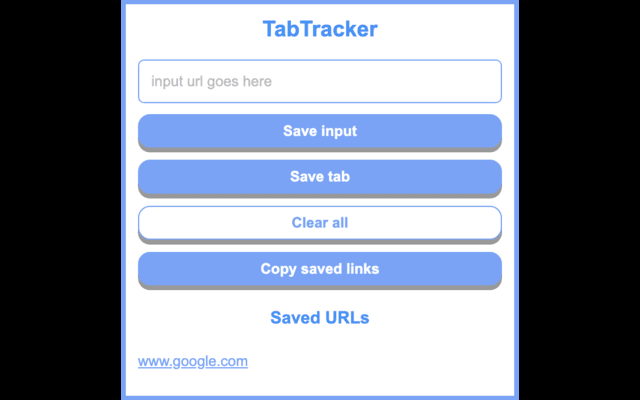
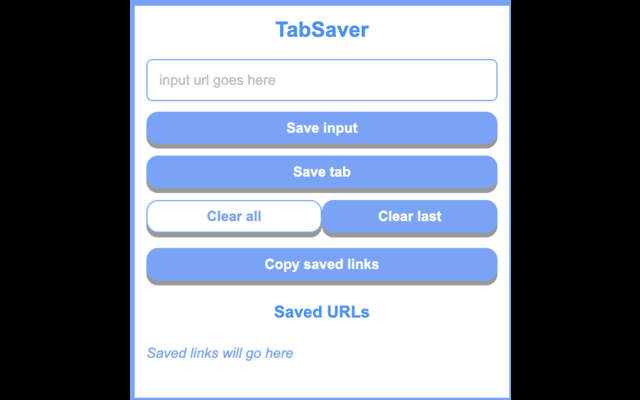
update screenshot

Changed region(s): [[0.1875, 0.0, 0.8125, 1.0]]

diff --git a/index.html b/index.html
@@ -4,10 +4,10 @@
         <link rel="stylesheet" href="https://cdnjs.cloudflare.com/ajax/libs/normalize/8.0.1/normalize.css">
         <link rel="stylesheet" href="index.css">
         <link rel="icon" href="images/icon128.png">
-        <title>TabTracker</title>
+        <title>TabSaver</title>
     </head>
     <body>
-        <h2 class="title1">TabTracker</h2>
+        <h2 class="title1">TabSaver</h2>
         <input type="text" id="input-el" placeholder="input url goes here">
         <div id="btn-div">
             <button id="input-btn">Save input</button>

diff --git a/README.md b/README.md
@@ -1,8 +1,6 @@
-# TabTracker
+# TabSaver
 
-A Chrome extension to save URLs that may be important to you. Allows users to links to browser local storage and easily access or copy their saved links to revisit later. Users can manually input URLs to save into their browser local storage via a simple button press. Alternatively, you can just save the currently open tab link. Keyboard shortcut to open the extension is Ctrl + Shift + F.
-
-Extension currently under review for Chrome Web Store.
+A Chrome extension to save URLs that may be important to you. Allows users to save links to browser local storage and easily access or copy their saved links. Users can manually input URLs to save into their browser local storage via a simple button press. Alternatively, they can just save the currently open tab link. Keyboard shortcut to open the extension is Ctrl + Shift + F.
 
 <img src="images/ext-screenshot.png" width="250"/>
 
